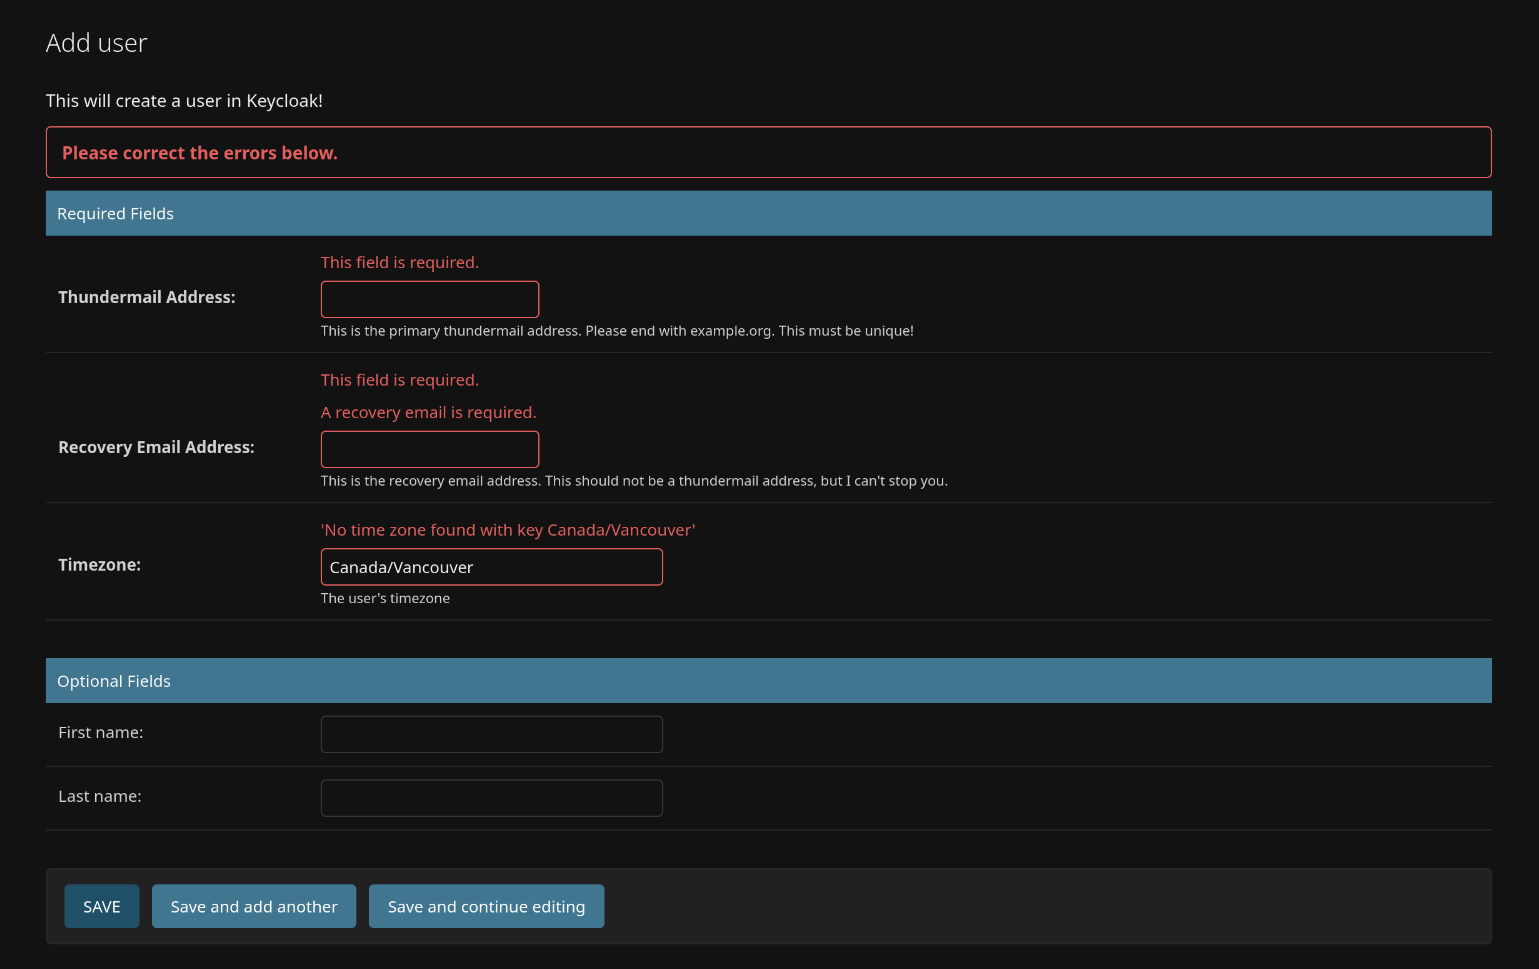
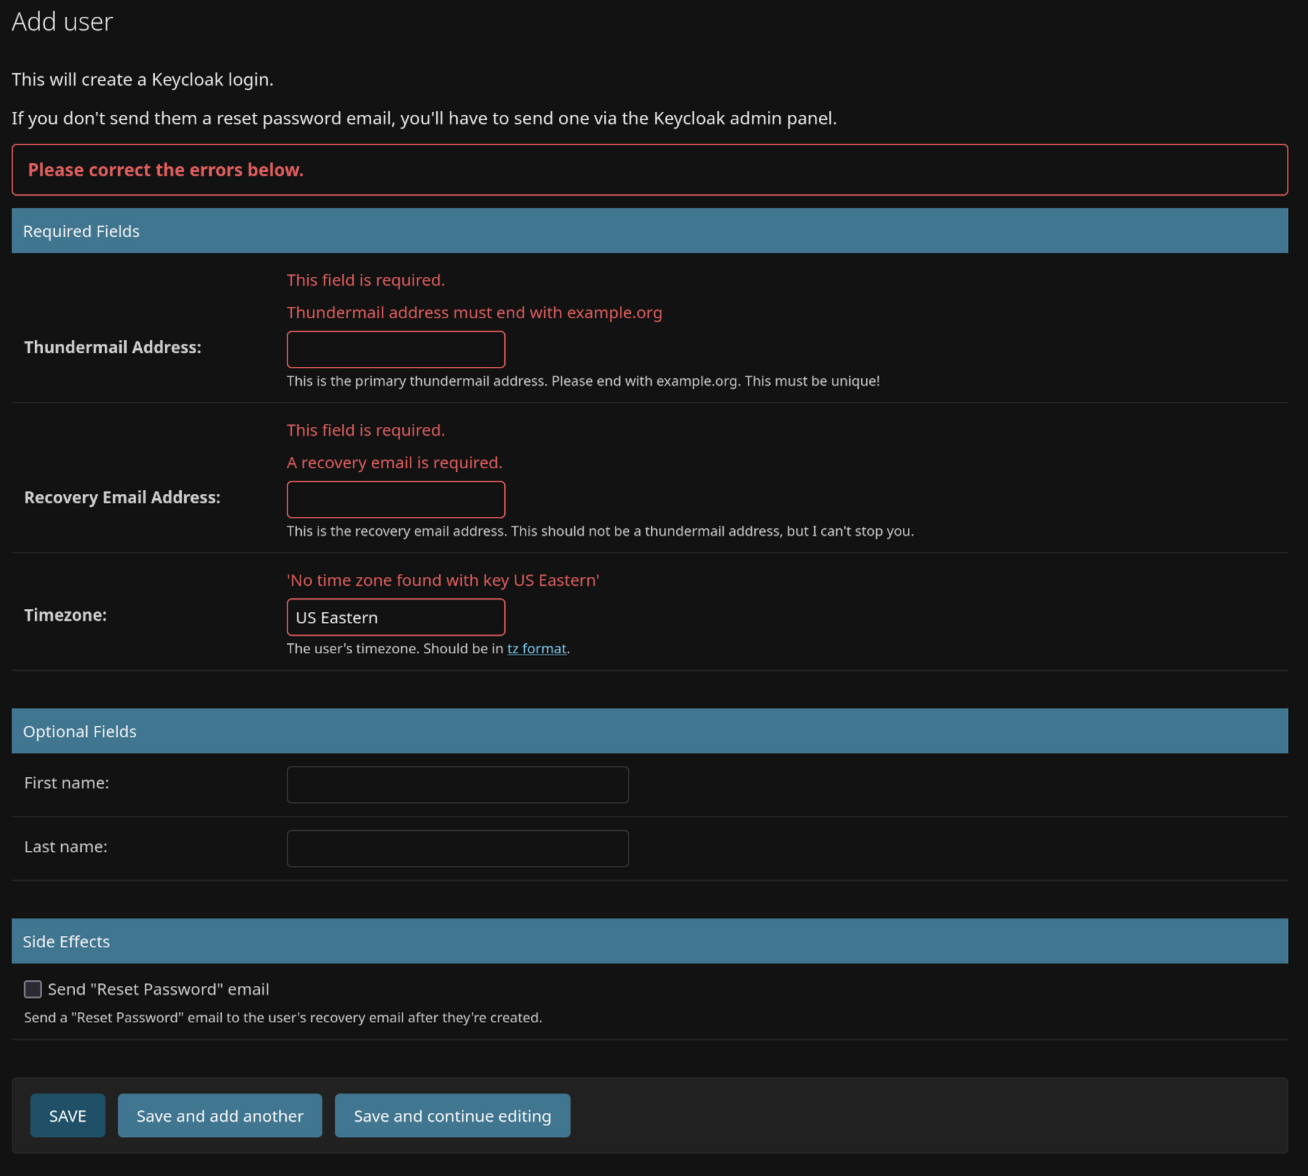
Update docs and add an admin faq. Additionally add a checkbox to send password resets.

diff --git a/src/thunderbird_accounts/authentication/templates/admin/auth/user/add_form.html b/src/thunderbird_accounts/authentication/templates/admin/auth/user/add_form.html
@@ -4,8 +4,8 @@
 {% block form_top %}
   {% if not is_popup %}
     {% blocktranslate %}
-      <p>This will create a Keycloak login and email them to add a password.</p>
-      <p><b>They will need to log in once</b> to set up their Stalwart email inbox.</p>
+      <p>This will create a Keycloak login.</p>
+      <p>If you don't send them a reset password email, you'll have to send one via the Keycloak admin panel.</p>
     {% endblocktranslate %}
   {% endif %}
 {% endblock %}

diff --git a/src/thunderbird_accounts/authentication/admin/forms.py b/src/thunderbird_accounts/authentication/admin/forms.py
@@ -1,3 +1,4 @@
+from thunderbird_accounts.authentication.utils import KeycloakRequiredAction
 import zoneinfo
 
 import sentry_sdk
@@ -84,6 +85,13 @@ class CustomUserFormBase(forms.ModelForm):
 
 
 class CustomNewUserForm(CustomUserFormBase):
+    send_reset_password_email = forms.BooleanField(
+        label=_('Send "Reset Password" email'),
+        required=False,
+        widget=forms.CheckboxInput(),
+        help_text=_('Send a "Reset Password" email to the user\'s recovery email after they\'re created.'),
+    )
+
     def clean(self):
         super().clean()
 
@@ -94,12 +102,17 @@ class CustomNewUserForm(CustomUserFormBase):
         # Create the user on keycloak's end
         keycloak = KeycloakClient()
         try:
+            aia_action = (
+                KeycloakRequiredAction.UPDATE_PASSWORD if self.cleaned_data.get('send_reset_password_email') else None
+            )
+
             name = f'{self.cleaned_data.get("first_name", "")} {self.cleaned_data.get("last_name", "")}'.strip()
             keycloak_pkid = keycloak.import_user(
                 self.cleaned_data.get('username'),
                 self.cleaned_data.get('recovery_email'),
                 timezone=self.cleaned_data.get('timezone'),
                 name=name,
+                send_action_email=aia_action,
             )
 
             # Save the oidc id so it matches on login

diff --git a/src/thunderbird_accounts/authentication/admin/models.py b/src/thunderbird_accounts/authentication/admin/models.py
@@ -134,6 +134,13 @@ class CustomUserAdmin(UserAdmin):
                 'fields': ('first_name', 'last_name'),
             },
         ),
+        (
+            _('Side Effects'),
+            {
+                'classes': ('wide',),
+                'fields': ('send_reset_password_email',),
+            },
+        ),
     )
 
     def delete_queryset(self, request, queryset):

diff --git a/docs/admin/users.md b/docs/admin/users.md
@@ -95,9 +95,12 @@ Additionally, the first and last names are optional and are part of the default 
 user profile. These fields are intended for display purposes only, and won't be used for billing. For display purposes
 they will be concatenated together with a space between.
 
-It'd be good to refresh up
-on [common falsehoods about names](https://www.kalzumeus.com/2010/06/17/falsehoods-programmers-believe-about-names/)
-too.
+Finally if you need to login to this account you **should definitely** check `Send "Reset Password" email`. This will 
+send a reset password email from Keycloak so the user may setup their credentials. If you fail to do this, you will 
+need to login to the Keycloak admin panel and send it via the user's credentials tab.
+
+This form does not check against the reserved word list, and therefore you can create users with thundermail addresses 
+that they would not be allowed to create themselves.
 
 ![A screenshot of the Add user page. Showing a few required fields mentioned above.](./users_4.png)
 
@@ -111,8 +114,8 @@ error.
 ![A screenshot of the required fields highlighted in a red outline with different errors.](./users_5.png)
 
 If there are no issues with the data, you'll be brought to one of the three places you've selected and that user will be
-created on Keycloak and promptly sent an `Update your password` type email. They **must** log in at least once to set up
-their Stalwart inbox.
+created on Keycloak. If the `Send "Reset Password" email` was checked they will receive an email via Keycloak to 
+reset / setup their credentials.
 
 ## Changing Users
 

diff --git a/docs/admin/faq.rst b/docs/admin/faq.rst
@@ -1,0 +1,8 @@
+==============================================
+FAQ
+==============================================
+
+How can I create a thundermail address that's blocked by the reserved word list?
+--------------------------------------------------------------------------------
+
+Any user created on the admin panel automatically bypasses the reserved word list. Simply add the user as documented in :doc:`./users` and make sure the ``Send "Rest Password" email`` field is checked.

diff --git a/README.md b/README.md
@@ -265,7 +265,10 @@ AuthConfig.name so it looks like `thunderbird_accounts.<app name>`.
 Ensure you have the requirements in docs installed and run the following command in the project's root folder:
 
 ```shell
-sphinx-build docs build
+uv run sphinx-build docs build
+
+# Or by running a handy shell script
+./build-and-run-docs.sh
 ```
 
 ## Feature Flags

diff --git a/docs/index.rst b/docs/index.rst
@@ -13,6 +13,7 @@ Contents
     :maxdepth: 2
     :caption: Admin Panel
 
+    admin/faq.rst
     admin/users.md
 
 .. toctree::
@@ -25,6 +26,8 @@ Contents
     mail.rst
     sign-up.rst
     tasks.rst
+
+    ci/image-publish-pipeline.md
 
 .. toctree::
     :maxdepth: 2